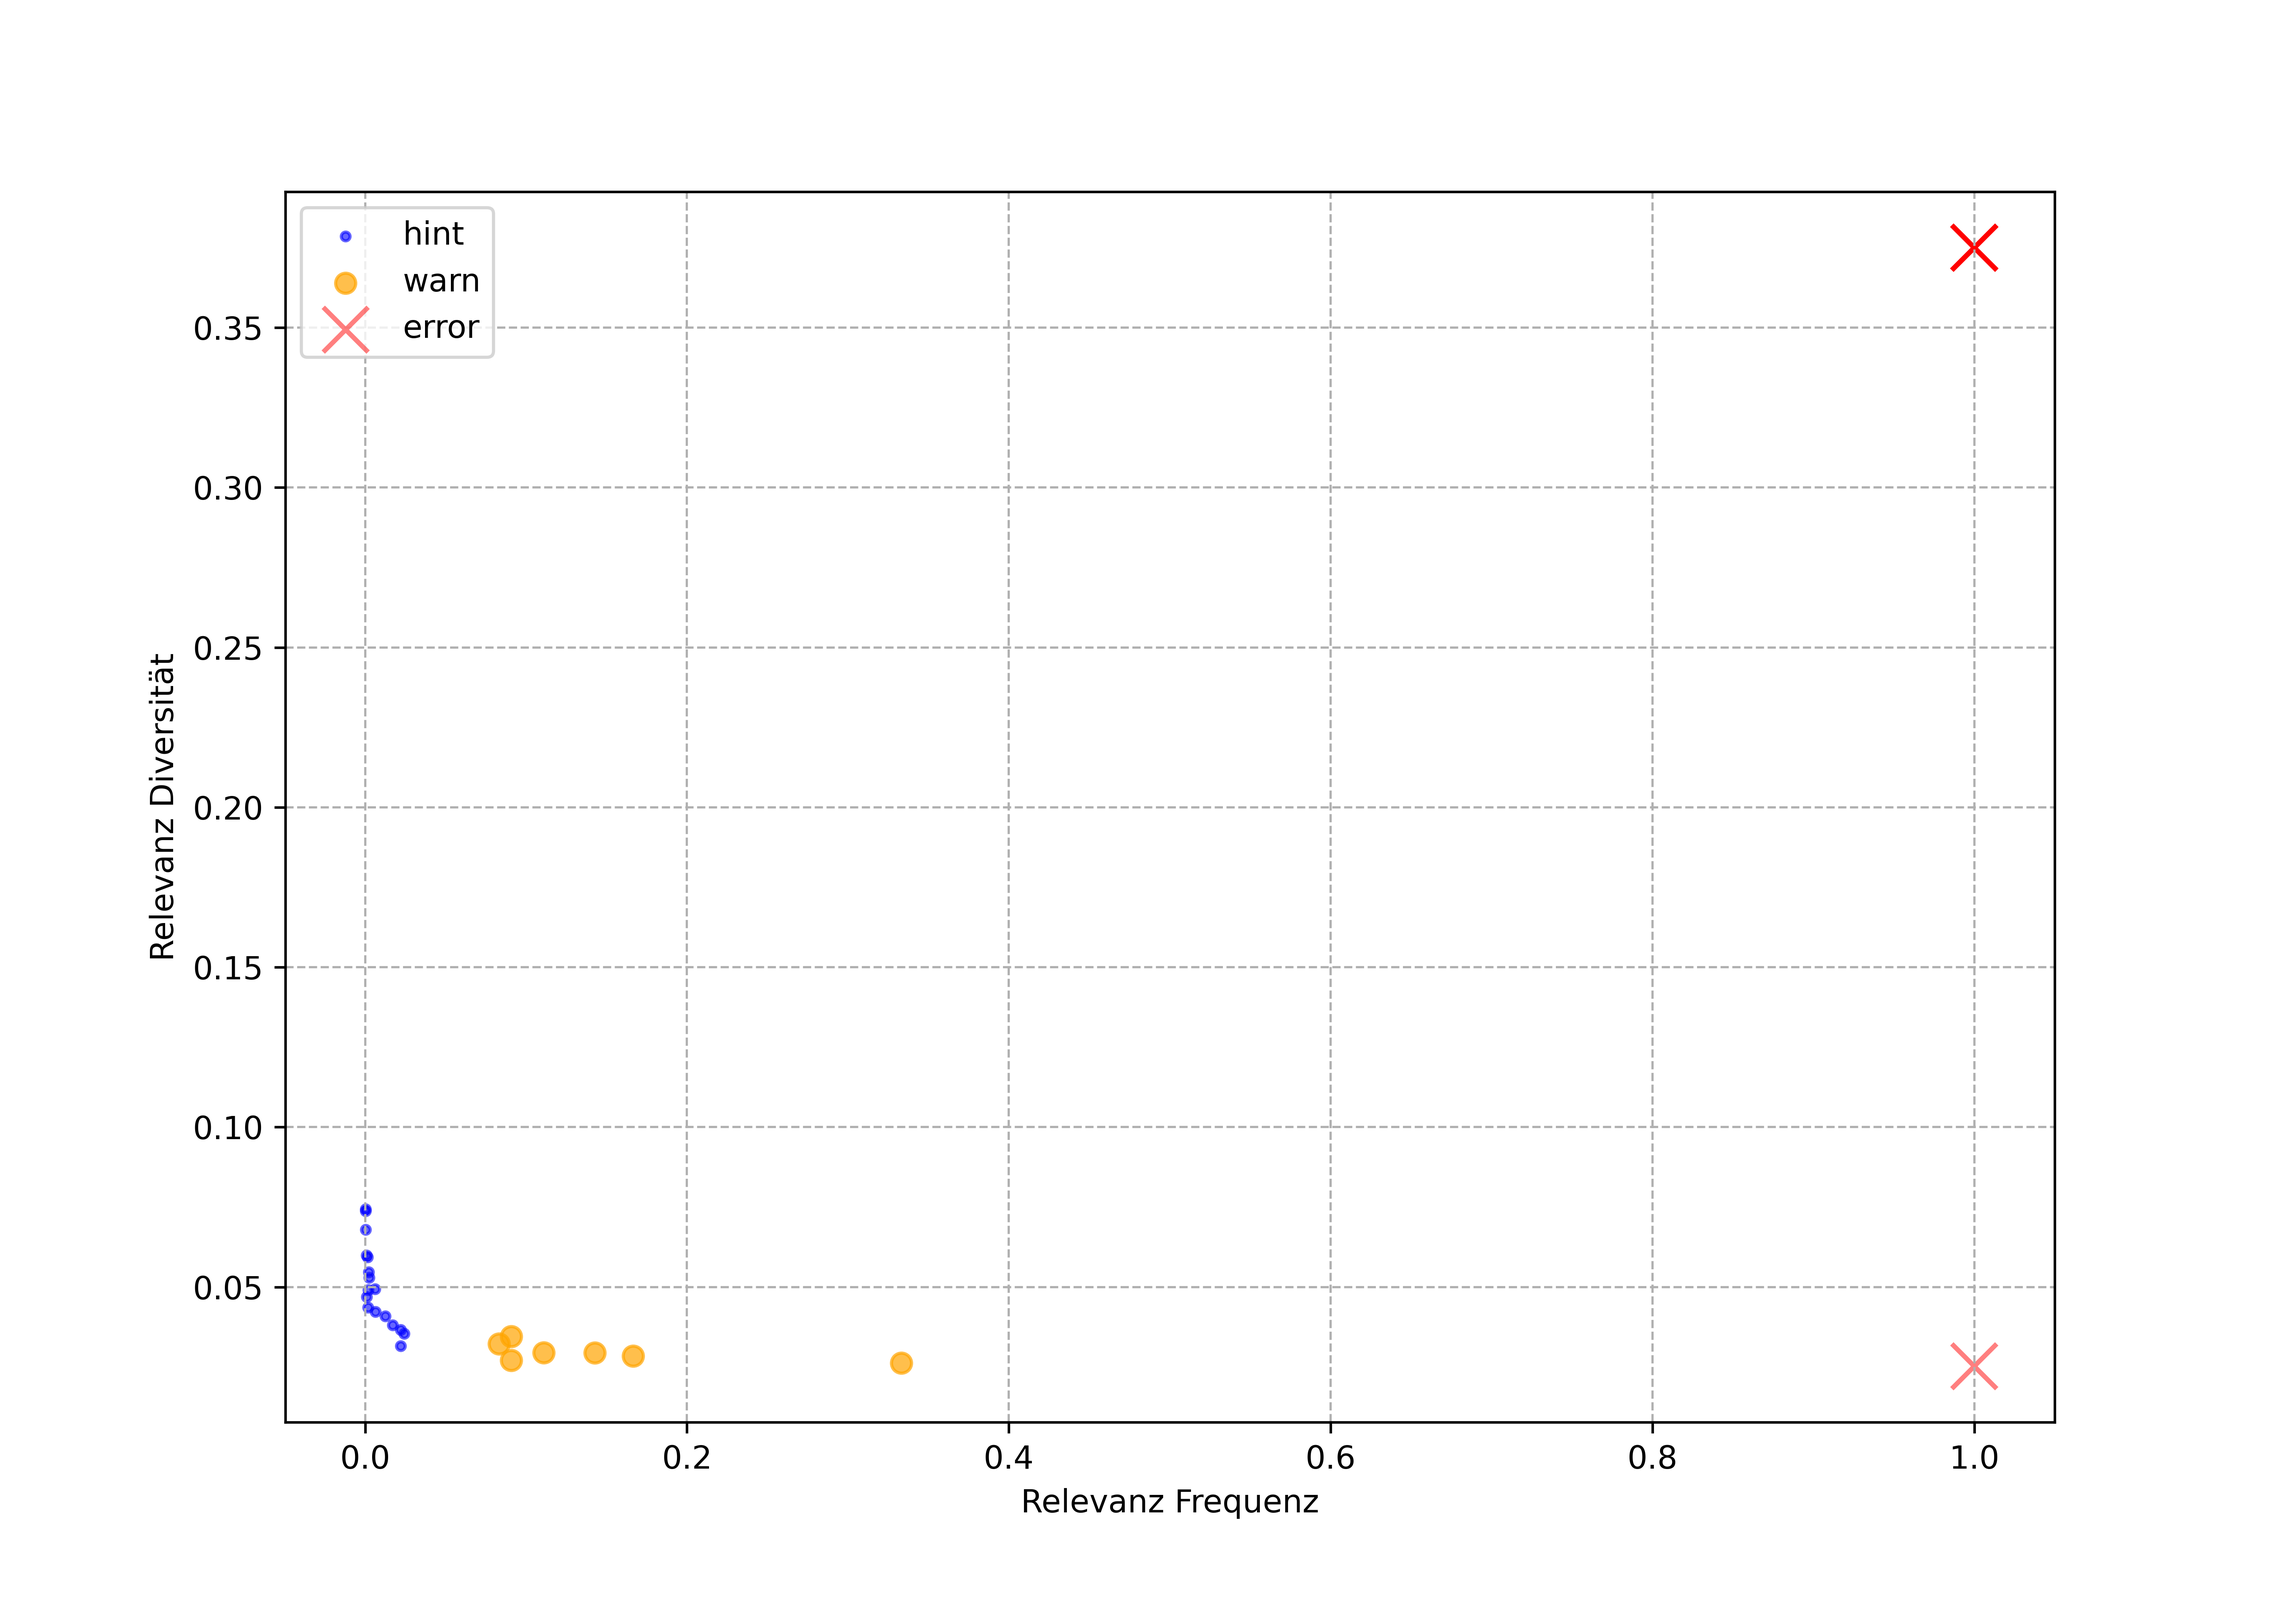
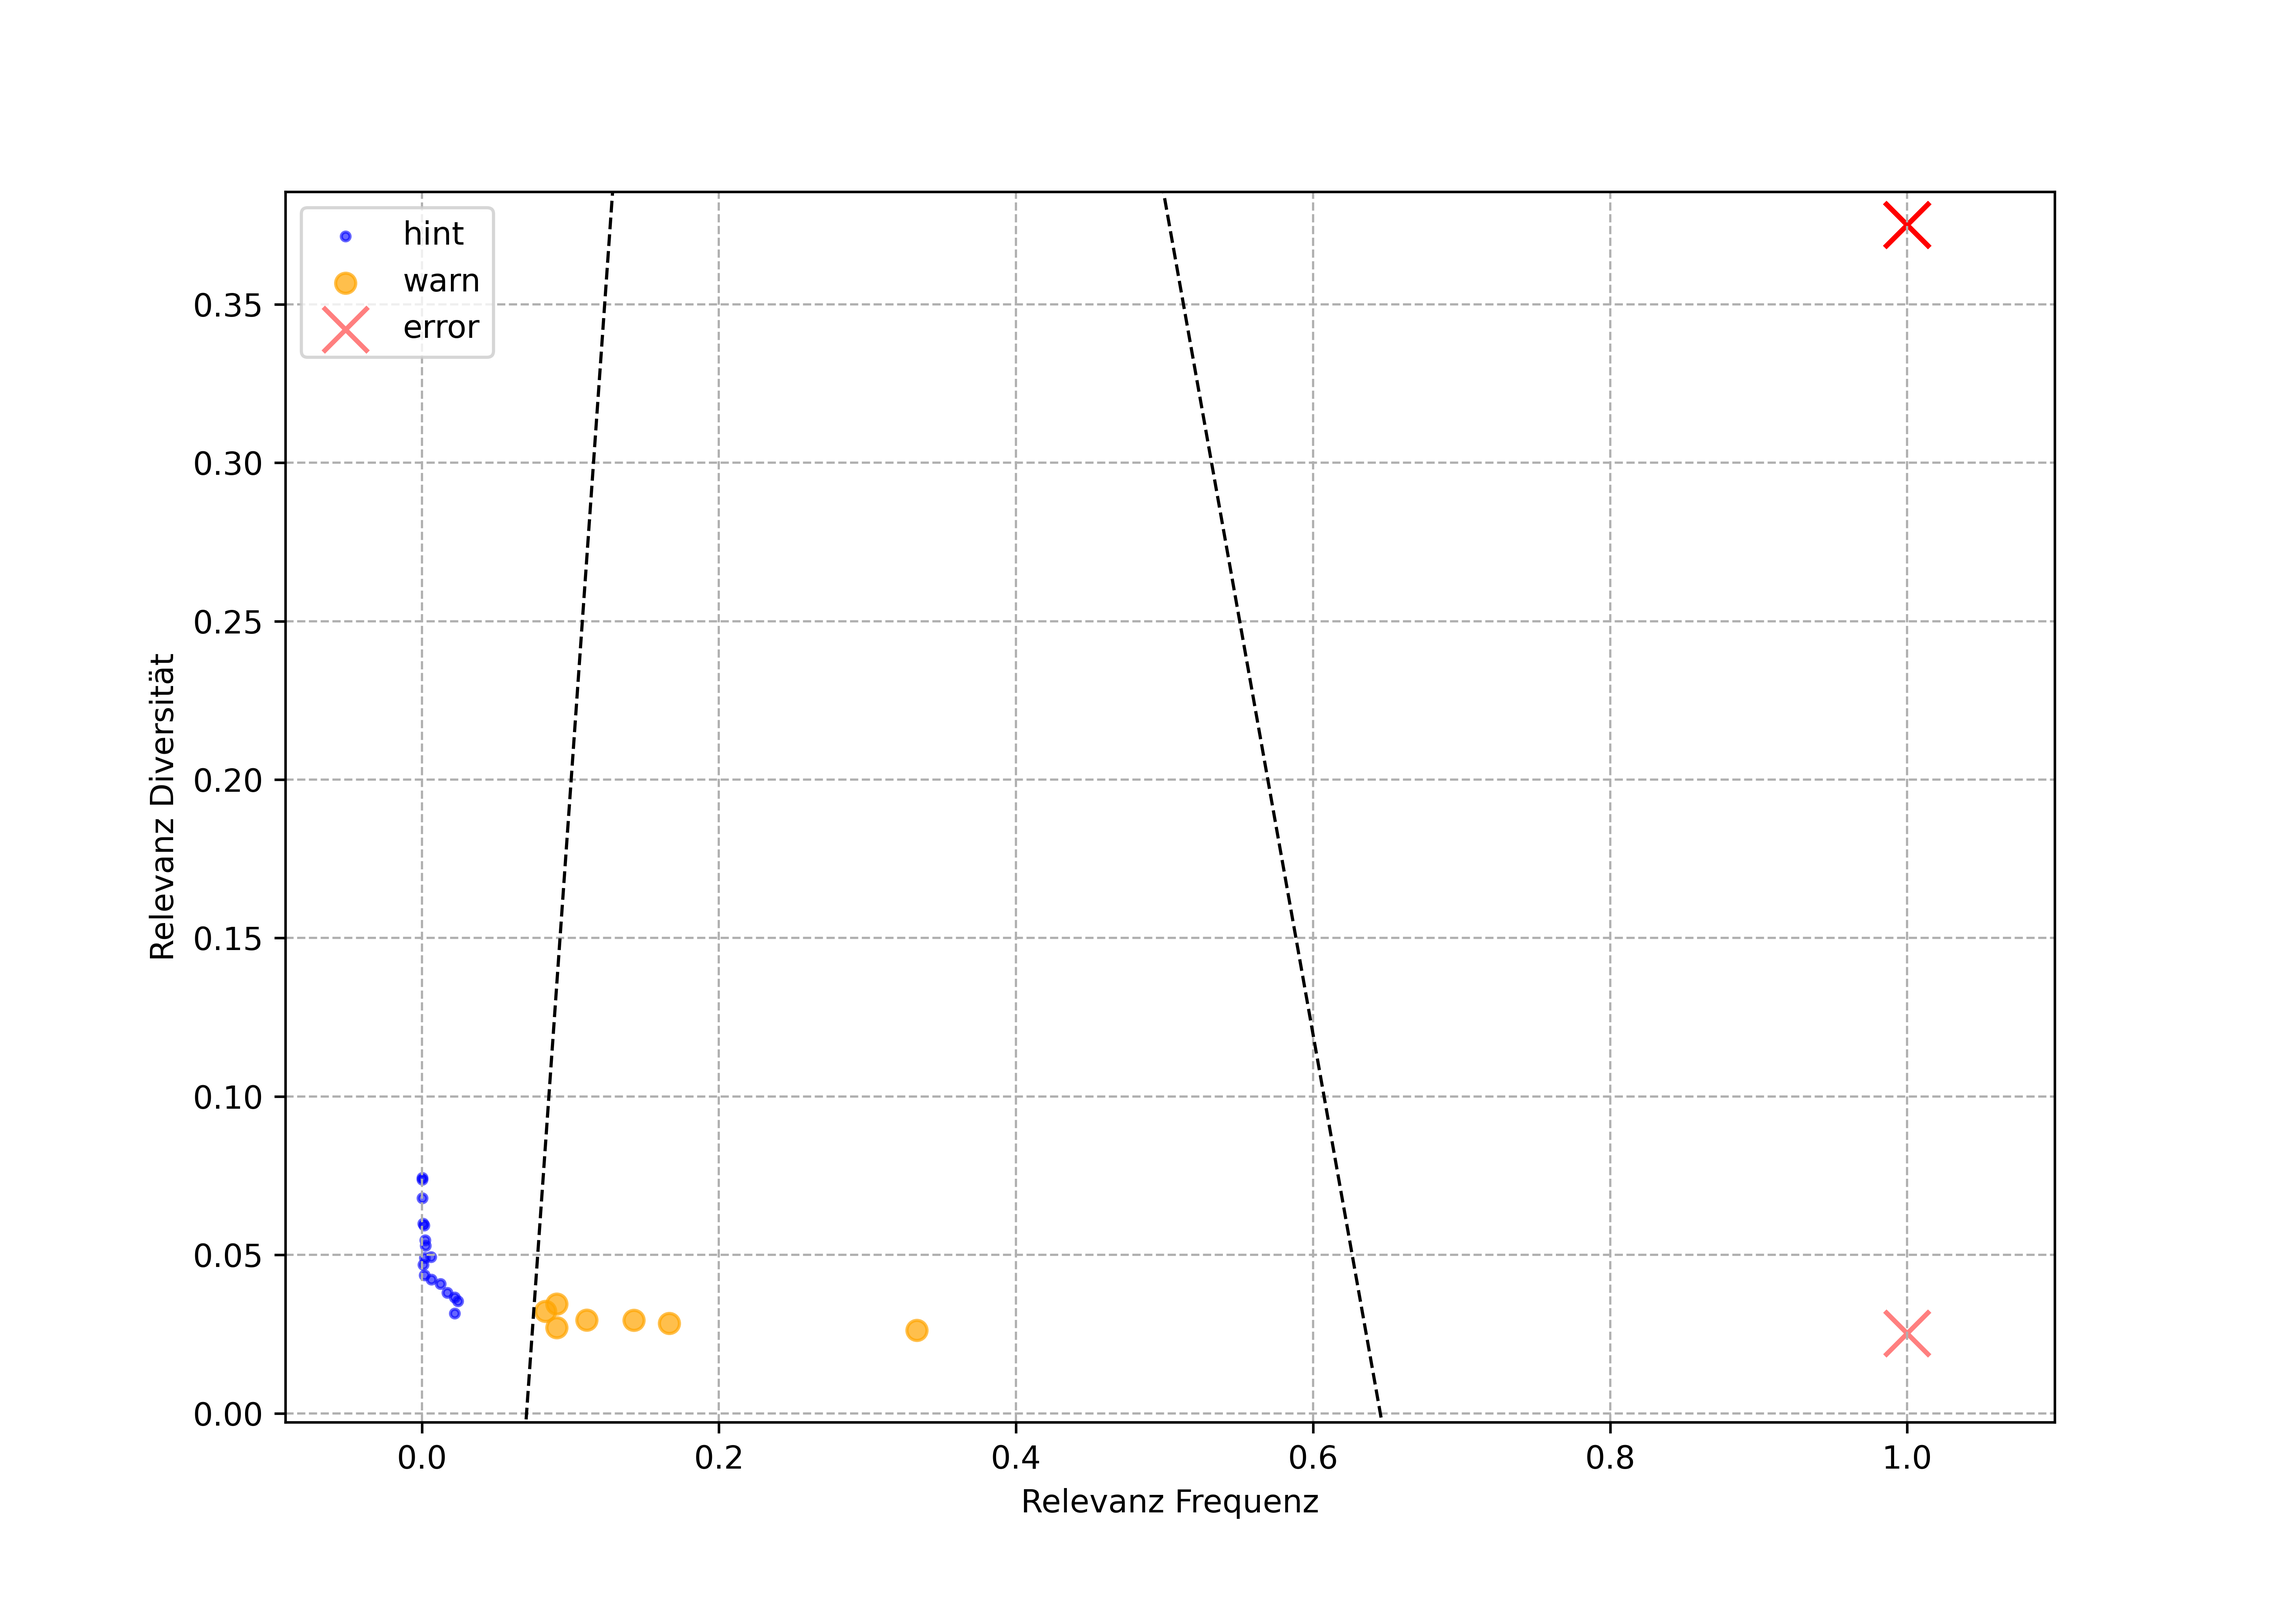
show clusters as voronoi areas

diff --git a/analysis/src/plot/clusterprioritizedscatter.py b/analysis/src/plot/clusterprioritizedscatter.py
@@ -5,15 +5,25 @@
 
 import matplotlib.pyplot as plt
 
+# pylint: disable=E0611
+from scipy.spatial import Voronoi, voronoi_plot_2d
 from table import create_clustering
 from communication import save_plot_to_thesis_dir
+
+
+def plot_voronoi(ax, points):
+    """
+    Plot Voronoi regions for cluster centroids.
+    """
+    vor = Voronoi(points)
+    voronoi_plot_2d(vor, ax=ax, show_points=False, show_vertices=False, line_colors="k")
 
 
 def create_plot():
     """
     create a scatterplot for the clustering
     """
-    df_clustered = create_clustering()
+    df_clustered, kmeans = create_clustering()
 
     filtered_hint = df_clustered[df_clustered["group"] == "hint"]
     filtered_warn = df_clustered[df_clustered["group"] == "warn"]
@@ -47,8 +57,11 @@ def create_plot():
         label="error",
         color="red",
     )
-    ax.grid(True, which="both", linestyle="--", linewidth=0.7)
 
+    centroids = kmeans.cluster_centers_ * (5 / 4, 5 / 1)
+    plot_voronoi(ax, centroids)
+
+    ax.grid(True, which="both", linestyle="--", linewidth=0.7)
     ax.set_xlabel("Relevanz Frequenz")
     ax.set_ylabel("Relevanz Diversität")
     ax.legend()

diff --git a/analysis/src/table/groupedprioritizedrules.py b/analysis/src/table/groupedprioritizedrules.py
@@ -18,7 +18,7 @@ def create_report():
     create the report with the Groups that emerge from clustering
     """
 
-    df_clustered = create_clustering()
+    df_clustered, _ = create_clustering()
 
     logger.info(
         "Kmeans Clustered Rules according to prio:\n%s",
@@ -63,4 +63,4 @@ def create_clustering():
         + df_prioritization_renamed_weighed["diversity"]
     ).assign(group=grouping)
 
-    return df_clustered
+    return df_clustered, kmeans
